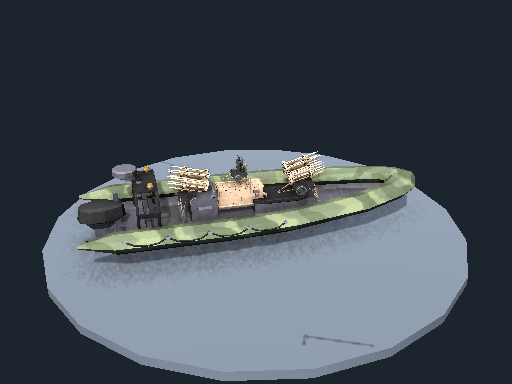
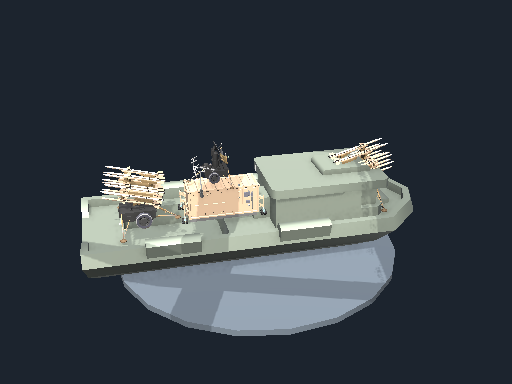
[claude] Upgrade artillery ship to a ~14m naval hull with launchers, bridge and radar mast
- NavalKit.cs: Kenney watercraft ship-cargo-c hull (CC0, x1.3, faction naval-grey material variant)
  + Synty Military launchers fore/aft, control-room bridge, radar and aerial mast
- Replaces the stretched Synty RHIB (SM_Veh_Boat_01) kit; SyntyAssign calls the shared builder
- Menu/batch: SyntyAssign.RebuildArtilleryShips; recaptured unit_cf/ff_artillery_ship.png

Claude-Session: https://claude.ai/code/session_01Diqjau2mCT771pahd6jJec

diff --git a/Assets/Editor/FactoryWars/NavalKit.cs b/Assets/Editor/FactoryWars/NavalKit.cs
@@ -1,0 +1,142 @@
+namespace FactoryWars.EditorTools {
+  using System.Collections.Generic;
+  using System.Linq;
+  using FactoryWars.View;
+  using UnityEditor;
+  using UnityEngine;
+
+  /// <summary>
+  /// 포격함(ff/cf_artillery_ship) 조립 키트(2026-11-22 교체). 예전 Synty 고무보트(SM_Veh_Boat_01, 8.4m) 늘이기 대신
+  /// 프로젝트에 있는 Kenney Watercraft(CC0) 화물선 빈 선체(ship-cargo-c, 10.6m)를 1.3배(약 13.7m)로 놓고,
+  /// Synty Military 다연장 발사대 2기(함수·함미), 장갑 함교(통제실), 레이더·안테나 마스트를 얹는다.
+  /// Kenney 선체는 원본 colormap 그대로, Synty 부품만 진영 색 변형을 쓴다. 원본 팩 파일은 건드리지 않고 우리 폴더에 키트 프리팹만 저장한다.
+  /// 배치: -executeMethod FactoryWars.EditorTools.SyntyAssign.RebuildArtilleryShips
+  /// </summary>
+  public static partial class SyntyAssign {
+    const string ShipHull = "Assets/ExternalAssets/Kenney/watercraft-pack/ship-cargo-c.fbx";
+    const float ShipHullScale = 1.3f;
+    /// <summary>선체 갑판 높이(배율 적용 후). 부품을 이 위에 얹는다.</summary>
+    const float ShipDeck = 1.62f;
+    /// <summary>화면 길이(m). 슬롯 배율이 이 길이에 맞춘다.</summary>
+    const float ShipSpan = 14f;
+
+    static IEnumerable<(string Path, Vector3 Pos, Vector3 Rot, float Scale)> ArtilleryShipParts() {
+      const string PM = PackRoot + "/PolygonMilitary/Prefabs/";
+      yield return (ShipHull, Vector3.zero, Vector3.zero, ShipHullScale);
+      // 함수 갑판(앞 갑판 위) 다연장 발사대 1기, 함미 발사대 1기(뒤를 향한다).
+      yield return (PM + "Props/Military/SM_Prop_Missile_Launcher_02.prefab", new Vector3(0f, ShipDeck, 4.3f), Vector3.zero, 0.62f);
+      yield return (PM + "Props/Military/SM_Prop_Missile_Launcher_02.prefab", new Vector3(0f, ShipDeck, -4.7f), new Vector3(0f, 180f, 0f), 0.6f);
+      // 장갑 함교 + 레이더 마스트 + 안테나.
+      yield return (PM + "Props/Military/SM_Prop_Drone_Control_Room_01.prefab", new Vector3(0f, ShipDeck, -1.4f), Vector3.zero, 0.46f);
+      yield return (PM + "Props/Military/SM_Prop_Mobile_Radar_01.prefab", new Vector3(0f, ShipDeck + 1.5f, -1.6f), Vector3.zero, 0.42f);
+      yield return (PM + "Props/SM_Prop_Aerial_01.prefab", new Vector3(0.8f, ShipDeck + 1.35f, -2.3f), Vector3.zero, 0.8f);
+    }
+
+    /// <summary>진영별 함정 회색 단색 머티리얼(URP Lit, 텍스처 없음). 자유 연방은 푸른 회색, 대륙 연방은 녹회색.</summary>
+    static Material HullMaterial(string faction) {
+      var folder = $"{OutRoot}/Materials";
+      if (AssetDatabase.IsValidFolder(folder) == false) {
+        AssetDatabase.CreateFolder(OutRoot, "Materials");
+      }
+      var path = $"{folder}/Naval_Hull_{faction}.mat";
+      var material = AssetDatabase.LoadAssetAtPath<Material>(path);
+      if (material == null) {
+        material = new Material(Shader.Find("Universal Render Pipeline/Lit"));
+        AssetDatabase.CreateAsset(material, path);
+      }
+      var color = faction == "ff" ? new Color(0.43f, 0.47f, 0.52f) : new Color(0.41f, 0.44f, 0.40f);
+      material.SetColor("_BaseColor", color);
+      material.color = color;
+      material.SetFloat("_Smoothness", 0.28f);
+      material.SetFloat("_Metallic", 0.15f);
+      EditorUtility.SetDirty(material);
+      return material;
+    }
+
+    static GameObject AssembleArtilleryShip(string faction) {
+      var swap = faction == "ff" ? PropsFree : PropsContinental;
+      var map = new Dictionary<string, Material>();
+      for (var i = 0; i + 1 < swap.Length; i += 2) {
+        var mat = FindMaterial(swap[i + 1]);
+        if (mat != null) map[swap[i]] = mat;
+      }
+      var root = new GameObject($"{faction}_artillery_ship_kit");
+      var index = 0;
+      foreach (var part in ArtilleryShipParts()) {
+        var source = AssetDatabase.LoadAssetAtPath<GameObject>(part.Path);
+        if (source == null) {
+          Debug.LogWarning($"[FW-Naval] 부품 없음: {part.Path}");
+          index++;
+          continue;
+        }
+        var instance = (GameObject)PrefabUtility.InstantiatePrefab(source, root.transform) ?? Object.Instantiate(source, root.transform);
+        instance.name = $"Part{index}_{source.name}";
+        instance.transform.localPosition = part.Pos;
+        instance.transform.localRotation = Quaternion.Euler(part.Rot);
+        instance.transform.localScale = Vector3.one * part.Scale;
+        if (part.Path == ShipHull) {
+          var hull = HullMaterial(faction);
+          foreach (var renderer in instance.GetComponentsInChildren<Renderer>(true)) {
+            renderer.sharedMaterials = Enumerable.Repeat(hull, renderer.sharedMaterials.Length).ToArray();
+          }
+        } else {
+          foreach (var renderer in instance.GetComponentsInChildren<Renderer>(true)) {
+            var mats = renderer.sharedMaterials;
+            var touched = false;
+            for (var m = 0; m < mats.Length; m++) {
+              if (mats[m] != null && map.TryGetValue(mats[m].name, out var to)) {
+                mats[m] = to;
+                touched = true;
+              }
+            }
+            if (touched) renderer.sharedMaterials = mats;
+          }
+        }
+        index++;
+      }
+      var saved = PrefabUtility.SaveAsPrefabAsset(root, $"{OutRoot}/Prefabs/{faction}_artillery_ship_kit.prefab");
+      Object.DestroyImmediate(root);
+      return saved;
+    }
+
+    static void BuildArtilleryShip(VisualCatalog catalog, string faction) {
+      var prefab = AssembleArtilleryShip(faction);
+      if (prefab == null) {
+        return;
+      }
+      var slotId = $"unit/{faction}_artillery_ship";
+      var slot = catalog.Slots.FirstOrDefault(s => s != null && s.Id == slotId);
+      if (slot == null) {
+        slot = new VisualSlot { Id = slotId };
+        catalog.Slots.Add(slot);
+      }
+      var (pivot, size) = MeasureActive(prefab);
+      slot.Category = VisualCategory.Unit;
+      slot.Prefabs = new List<GameObject> { prefab };
+      slot.PivotOffset = pivot;
+      slot.Size = size;
+      slot.YawOffset = 0f;
+      slot.TeamColor = TeamColorMode.None;
+      slot.TeamTextures = new Texture2D[0];
+      slot.RealWorld = RealWorldCheck.Clear;
+      slot.OwnerRing = true;
+      slot.Animator = null;
+      slot.AutoFit = false;
+      slot.Scale = ShipSpan / Mathf.Max(0.1f, Mathf.Max(size.x, size.z));
+      slot.SpinParts = new[] { "Radar:Y" };
+      slot.Notes = "Kenney Watercraft cargo hull (CC0) + Synty Military launchers, bridge, radar mast";
+      Debug.Log($"[FW-Naval] {slotId} size={size} scale={slot.Scale:0.###} span={Mathf.Max(size.x, size.z) * slot.Scale:0.#}m");
+    }
+
+    [MenuItem("Tools/Factory Wars/Assets/Rebuild Artillery Ships")]
+    public static void RebuildArtilleryShips() {
+      var catalog = Resources.Load<VisualCatalog>(VisualCatalog.ResourcePath);
+      foreach (var faction in new[] { "ff", "cf" }) {
+        BuildArtilleryShip(catalog, faction);
+      }
+      catalog.Invalidate();
+      EditorUtility.SetDirty(catalog);
+      AssetDatabase.SaveAssets();
+    }
+  }
+}

diff --git a/Assets/Editor/FactoryWars/SyntyAssign.cs b/Assets/Editor/FactoryWars/SyntyAssign.cs
@@ -19,7 +19,7 @@ namespace FactoryWars.EditorTools {
   /// 메뉴 Tools/Factory Wars/Assets/5. Assign Synty Pack, 배치: -executeMethod FactoryWars.EditorTools.SyntyAssign.Run
   /// 팩 파일 이름에는 실존 국가명이 들어 있는 것이 있어 코드에는 별칭과 GUID만 쓴다. 별칭 → 실제 파일 표는 Game-logs/assets/synty/slot-table.csv.
   /// </summary>
-  public static class SyntyAssign {
+  public static partial class SyntyAssign {
     public const string PackRoot = "Assets/ExternalAssets/Synty";
     public const string OutRoot = "Assets/FactoryWarsArt/Synty";
     public const string ControllerPath = OutRoot + "/Animation/PackInfantry.controller";
@@ -542,19 +542,12 @@ namespace FactoryWars.EditorTools {
           new KitPart(PM + "Vehicles/SM_Veh_Helicopter_Transport_01.prefab", Vector3.zero, Vector3.zero, 1f)),
         6.8f, 0f, new[] { "Blades_Main:Y", "Blades_Back:X" }, "Synty Transport Helicopter");
 
-      // 7) 현대식 포격함(ff/cf_artillery_ship): 실제 Synty 군용 위장 보트(SM_Veh_Boat_01) 확장 선체 + 전·후방 미사일 발사대 2기 + 장갑 함교 통제실 + 회전 레이더 마스트
+      // 7) 포격함(ff/cf_artillery_ship): NavalKit.cs(Kenney 화물선 선체 + Synty 다연장 발사대·함교·레이더 마스트). 다른 팩 조립과 같은 칸 규칙.
       foreach (var faction in new[] { "ff", "cf" }) {
-        var pSwap = faction == "ff" ? PropsFree : PropsContinental;
+        BuildArtilleryShip(catalog, faction);
+      }
+      foreach (var faction in new[] { "ff", "cf" }) {
         var bSwapNaval = faction == "ff" ? LightFree : LightContinental;
-        RegisterComposite($"unit/{faction}_artillery_ship", VisualCategory.Unit,
-          Assemble($"{faction}_artillery_ship_kit", pSwap,
-            new KitPart(BR + "Vehicles/SM_Veh_Boat_01.prefab", Vector3.zero, Vector3.zero, new Vector3(2.15f, 1.35f, 2.35f)),
-            new KitPart(PM + "Props/Military/SM_Prop_Missile_Launcher_02.prefab", new Vector3(0f, 1.05f, 3.3f), Vector3.zero, 0.58f),
-            new KitPart(PM + "Props/Military/SM_Prop_Missile_Launcher_02.prefab", new Vector3(0f, 1.05f, -3.1f), new Vector3(0f, 180f, 0f), 0.58f),
-            new KitPart(PM + "Props/Military/SM_Prop_Drone_Control_Room_01.prefab", new Vector3(0f, 0.72f, -0.35f), Vector3.zero, 0.42f),
-            new KitPart(PM + "Props/Military/SM_Prop_Mobile_Radar_01.prefab", new Vector3(0f, 2.25f, -0.35f), Vector3.zero, 0.38f)),
-          9.6f, 0f, new[] { "Radar:Y" }, "Synty military artillery gunboat kitbash");
-
         // 8) 현대식 수륙양용 상륙정(ff/cf_landing_craft): 실제 Synty 군용 보트 광폭 선체 + 함수 장갑 상륙 램프 + 양현 방호벽 + 탄약·화물 스택
         RegisterComposite($"unit/{faction}_landing_craft", VisualCategory.Unit,
           Assemble($"{faction}_landing_craft_kit", bSwapNaval,
